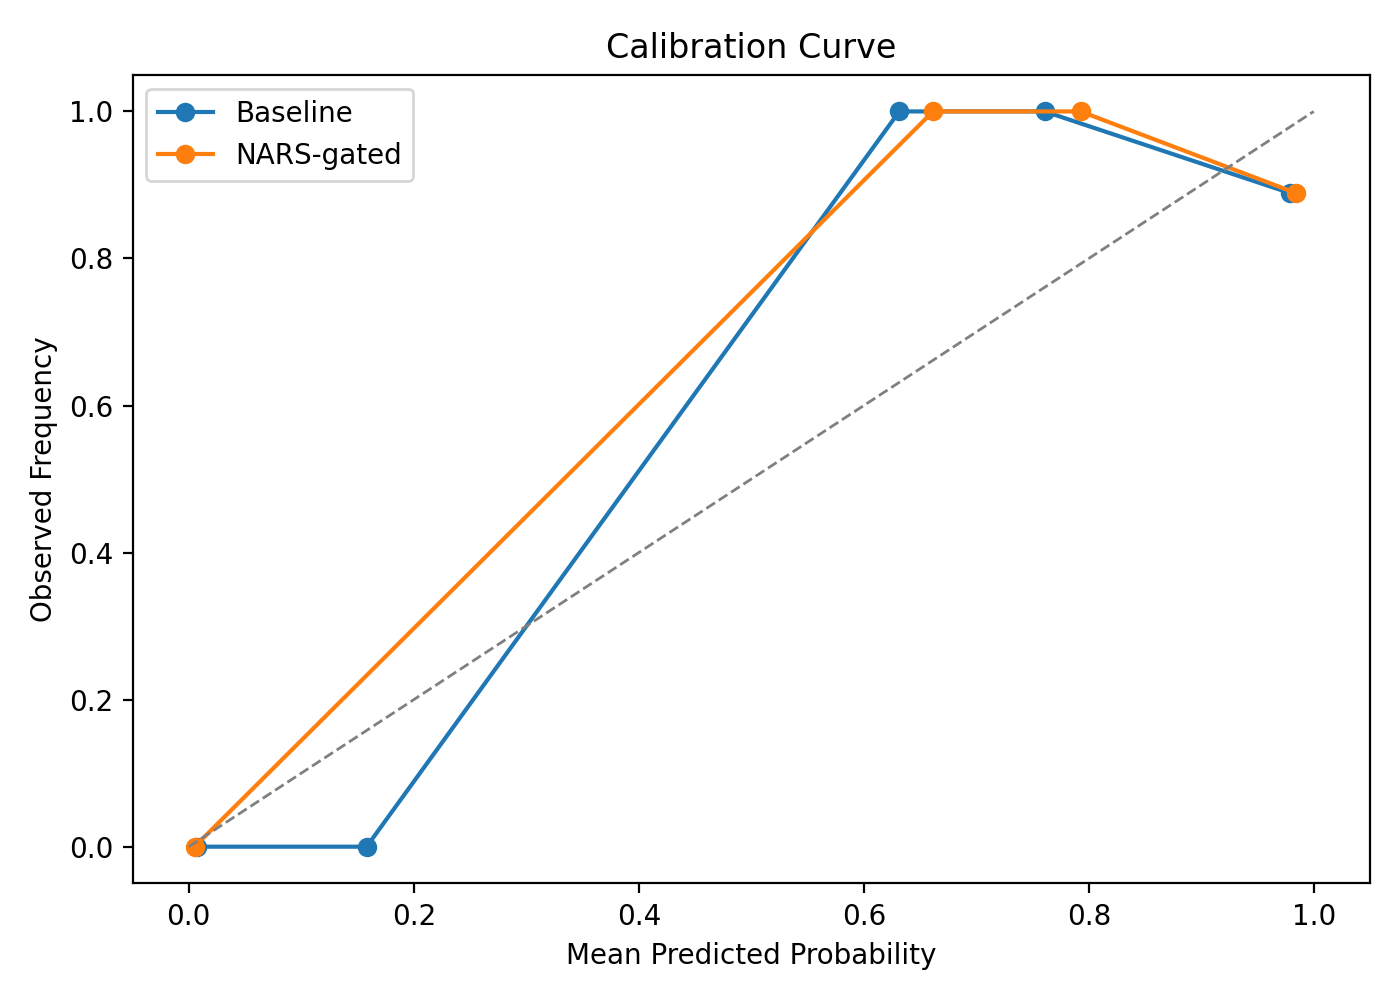
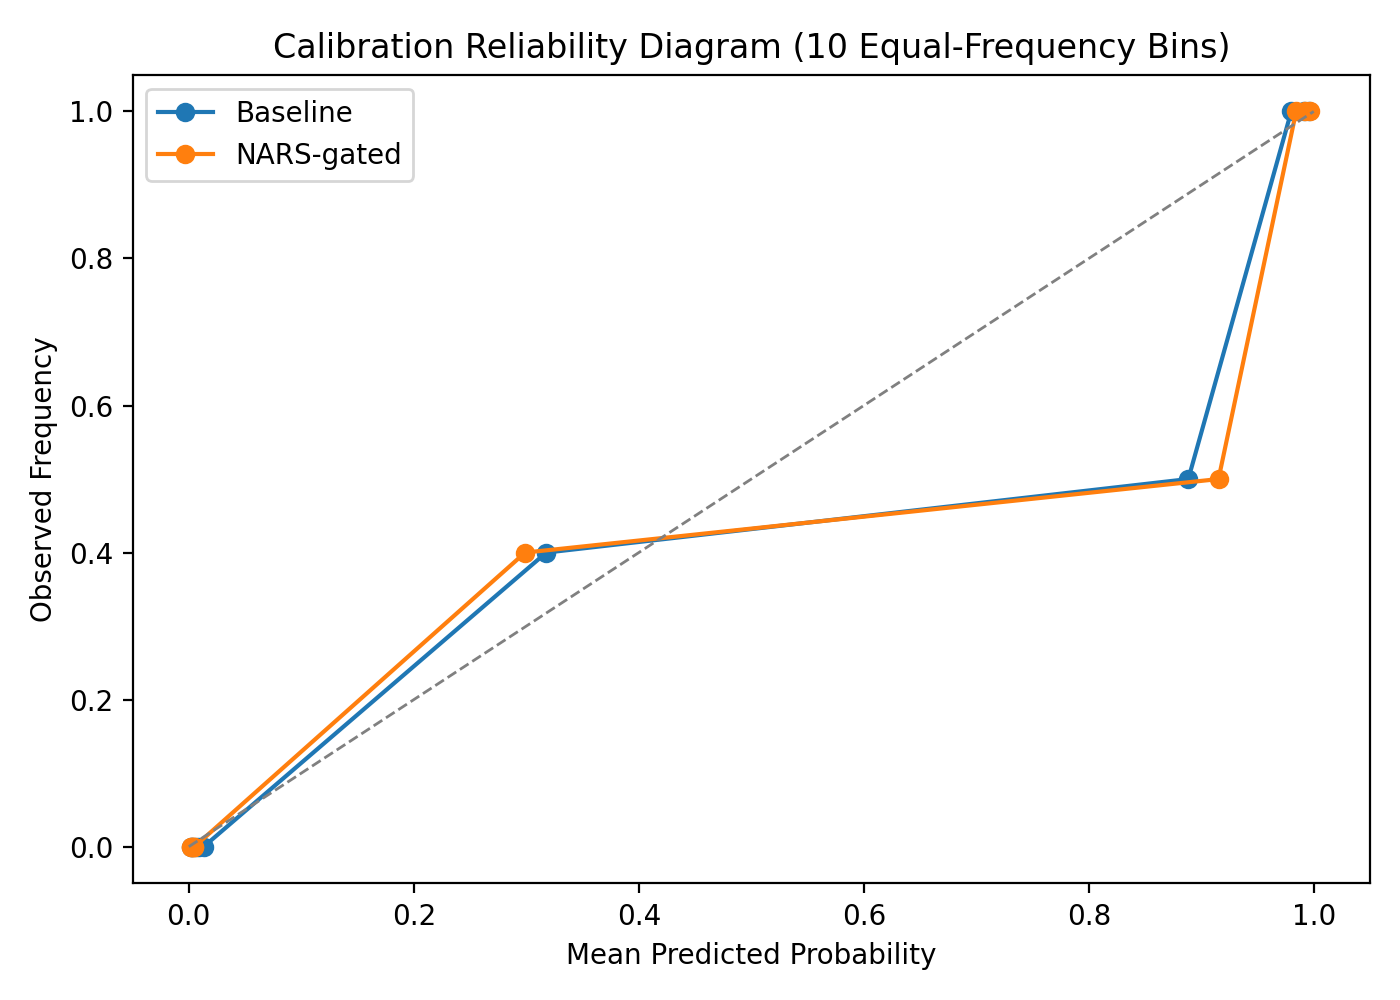
add calibration reliability diagram

diff --git a/paper/main.tex b/paper/main.tex
@@ -344,18 +344,18 @@ Gain $g$ & $0.7173$ & $g=c_{rev}^{\gamma}$ with $\gamma=2$ \\
 \end{tabular}
 \end{table}
 
-We also evaluated the implemented pipeline on a 149-row MTC dataset using a study-aware split with 80 training cases, 21 validation cases, and 48 held-out test cases. The reported run uses the default experimental setting of 50 Monte Carlo dropout passes with $\gamma=2$, together with a transformer architecture of $d_{model}=64$, 4 heads, and 2 encoder layers. Table~\ref{tab:empirical_results} summarizes the held-out performance of that configuration together with bootstrap confidence intervals for AUC. In addition, a gamma ablation was run over $\gamma\in\{0.25,0.5,1,2,4\}$ using the same trained model and held-out split to examine how the confidence gate changes the final outputs.
+We also evaluated the implemented pipeline on a 149-row MTC dataset using a study-aware split with 80 training cases, 21 validation cases, and 48 held-out test cases. The reported run uses the default experimental setting of 50 Monte Carlo dropout passes with $\gamma=2$, together with a transformer architecture of $d_{model}=64$, 4 heads, and 2 encoder layers. Table~\ref{tab:empirical_results} summarizes the held-out performance of that configuration together with bootstrap confidence intervals for AUC and expected calibration error (ECE) from a 10-bin equal-frequency reliability diagram. In addition, a gamma ablation was run over $\gamma\in\{0.25,0.5,1,2,4\}$ using the same trained model and held-out split to examine how the confidence gate changes the final outputs.
 
 \begin{table}[H]
 \caption{Empirical test-set performance on the 48-case held-out study-aware split for MTC diagnosis.}
 \label{tab:empirical_results}
 \centering
-\begin{tabular}{@{}lccccc@{}}
+\begin{tabular}{@{}lcccccc@{}}
 \toprule
-Variant & AUC & Brier score & Accuracy & 95\% CI (Baseline) & 95\% CI (NARS-Gated) \\
+Variant & AUC & Brier score & ECE & Accuracy & 95\% CI (Baseline) & 95\% CI (NARS-Gated) \\
 \midrule
-Baseline transformer & 0.9873 & 0.0412 & 0.9583 & [0.9590, 1.0000] & [0.9637, 1.0000] \\
-NARS-gated transformer & 0.9891 & 0.0411 & 0.9583 & [0.9590, 1.0000] & [0.9637, 1.0000] \\
+Baseline transformer & 0.9873 & 0.0412 & 0.0476 & 0.9583 & [0.9590, 1.0000] & [0.9637, 1.0000] \\
+NARS-gated transformer & 0.9891 & 0.0411 & 0.0496 & 0.9583 & [0.9590, 1.0000] & [0.9637, 1.0000] \\
 \bottomrule
 \end{tabular}
 \end{table}
@@ -383,6 +383,8 @@ The gamma ablation in Table~\ref{tab:gamma_ablation} shows that, on this test sp
 
 We also computed decision-curve analysis over threshold probabilities from 0.05 to 0.95 to assess clinical utility in terms of net benefit. Across a broad middle range of thresholds, both learned models outperform the treat-all and treat-none strategies. The NARS-gated model matches the baseline at many thresholds and exceeds it slightly at several decision points, including 0.65 and 0.80. At threshold 0.65, for example, net benefit increases from 0.2976 to 0.3185, corresponding to roughly 2.08 additional true-positive-equivalent decisions per 100 patients after accounting for threshold-weighted false positives.
 
+Calibration was assessed with a reliability diagram using 10 equal-frequency bins and by expected calibration error. On this split, ECE was 0.0476 for the baseline model and 0.0496 for the NARS-gated model. Thus, while the gated model improved Brier score slightly, it did not improve ECE on the same held-out set, indicating a mixed calibration result rather than a uniform gain.
+
 \section{Analysis}
 \label{sec:analysis}
 
@@ -392,7 +394,7 @@ Eq.~\eqref{eq:attention_update_result} enforces two invariants. It preserves $\s
 
 The empirical comparison in Table~\ref{tab:empirical_results} suggests that the direction of the AUC change is consistent with the method's intent. Because accuracy and recall remained unchanged while AUC increased slightly, the main impact of NARS guidance in this run is better ordering of cases by predicted risk rather than a change in thresholded decisions. In a clinical triage setting, even a small ranking improvement can matter because it can move suspicious cases higher in the review queue; however, the overlapping bootstrap intervals indicate that this cannot be treated as a confirmed performance gain on the current test split.
 
-The same experiment also shows a cautionary point. The Brier score changed only slightly, from 0.0412 to 0.0411 in the selected configuration, so the calibration effect is minor compared with the ranking effect. At the same time, the gamma ablation indicates that stronger gating can improve Brier score modestly even when AUC and accuracy stay fixed. This trade-off is consistent with the idea that confidence-based reweighting may help prioritize cases and smooth probabilities without necessarily changing hard decisions on a small held-out split.
+The same experiment also shows a cautionary point. The Brier score changed only slightly, from 0.0412 to 0.0411 in the selected configuration, so the calibration effect is minor compared with the ranking effect. At the same time, the gamma ablation indicates that stronger gating can improve Brier score modestly even when AUC and accuracy stay fixed, whereas the equal-frequency ECE estimate slightly worsened from 0.0476 to 0.0496. This trade-off is consistent with the idea that confidence-based reweighting may help prioritize cases and smooth probabilities without necessarily improving every calibration summary on a small held-out split.
 
 The decision-curve analysis sharpens that interpretation. The gain from NARS guidance is better described as local clinical-utility improvement at selected thresholds than as a uniform improvement across all decision settings. The high-threshold tail is unstable on this 48-case test set, with the NARS-gated curve dropping below baseline at 0.90 and 0.95, so those regions should not be over-interpreted. Taken together, the ranking, calibration, and decision-utility results support feasibility and selective benefit, but not a blanket claim of superiority across all threshold choices.
 

diff --git a/src/pipeline.py b/src/pipeline.py
@@ -11,7 +11,6 @@ import matplotlib.pyplot as plt
 import numpy as np
 import pandas as pd
 import torch
-from sklearn.calibration import calibration_curve
 from sklearn.metrics import accuracy_score, brier_score_loss, roc_auc_score, roc_curve
 from torch import nn
 
@@ -164,11 +163,46 @@ def _sigmoid(values: np.ndarray) -> np.ndarray:
 def _compute_metrics(y_true: np.ndarray, probabilities: np.ndarray) -> dict[str, float]:
     clipped_probabilities = np.clip(probabilities, 1e-6, 1.0 - 1e-6)
     predictions = (clipped_probabilities >= 0.5).astype(int)
+    reliability = _build_reliability_frame(y_true, clipped_probabilities, n_bins=10)
     return {
         "auc": float(roc_auc_score(y_true, clipped_probabilities)),
         "brier": float(brier_score_loss(y_true, clipped_probabilities)),
         "accuracy": float(accuracy_score(y_true, predictions)),
+        "ece": _compute_ece(reliability),
     }
+
+
+def _build_reliability_frame(
+    y_true: np.ndarray,
+    probabilities: np.ndarray,
+    n_bins: int = 10,
+) -> pd.DataFrame:
+    frame = pd.DataFrame(
+        {
+            "probability": np.asarray(probabilities, dtype=np.float64),
+            "label": np.asarray(y_true, dtype=np.float64),
+        }
+    ).sort_values("probability", kind="mergesort").reset_index(drop=True)
+    frame["bin"] = pd.qcut(frame.index, q=n_bins, labels=False, duplicates="drop")
+    reliability = (
+        frame.groupby("bin", observed=True)
+        .agg(
+            mean_predicted_probability=("probability", "mean"),
+            fraction_positives=("label", "mean"),
+            count=("label", "size"),
+        )
+        .reset_index(drop=True)
+    )
+    return reliability
+
+
+def _compute_ece(reliability_frame: pd.DataFrame) -> float:
+    total = float(reliability_frame["count"].sum())
+    weighted_error = (
+        (reliability_frame["count"] / total)
+        * np.abs(reliability_frame["fraction_positives"] - reliability_frame["mean_predicted_probability"])
+    ).sum()
+    return float(weighted_error)
 
 
 def _bootstrap_auc_intervals(
@@ -256,17 +290,17 @@ def _save_calibration_plot(
         ("Baseline", baseline_probabilities),
         ("NARS-gated", gated_probabilities),
     ):
-        fraction_positives, mean_predicted_value = calibration_curve(
-            y_true,
-            probabilities,
-            n_bins=8,
-            strategy="uniform",
+        reliability = _build_reliability_frame(y_true, probabilities, n_bins=10)
+        plt.plot(
+            reliability["mean_predicted_probability"],
+            reliability["fraction_positives"],
+            marker="o",
+            label=label,
         )
-        plt.plot(mean_predicted_value, fraction_positives, marker="o", label=label)
     plt.plot([0, 1], [0, 1], linestyle="--", color="gray", linewidth=1)
     plt.xlabel("Mean Predicted Probability")
     plt.ylabel("Observed Frequency")
-    plt.title("Calibration Curve")
+    plt.title("Calibration Reliability Diagram (10 Equal-Frequency Bins)")
     plt.legend()
     plt.tight_layout()
     plt.savefig(output_path, dpi=200)
@@ -493,6 +527,15 @@ def run_pipeline(config: PipelineConfig) -> dict[str, Any]:
     gated_probabilities = _sigmoid(gated_logits)
 
     y_true = summary.labels.astype(int)
+    baseline_reliability = _build_reliability_frame(y_true, summary.probabilities_mean, n_bins=10)
+    gated_reliability = _build_reliability_frame(y_true, gated_probabilities, n_bins=10)
+    reliability_frame = pd.concat(
+        [
+            baseline_reliability.assign(variant="baseline"),
+            gated_reliability.assign(variant="nars_gated"),
+        ],
+        ignore_index=True,
+    )
     auc_bootstrap = _bootstrap_auc_intervals(
         y_true=y_true,
         probability_map={
@@ -519,6 +562,7 @@ def run_pipeline(config: PipelineConfig) -> dict[str, Any]:
         ]
     )
     metrics_frame.to_csv(output_dirs["metrics"] / "metrics.csv", index=False)
+    reliability_frame.to_csv(output_dirs["metrics"] / "calibration_reliability.csv", index=False)
 
     trace_frame = _build_trace_frame(
         bundle=bundle,
@@ -574,11 +618,13 @@ def run_pipeline(config: PipelineConfig) -> dict[str, Any]:
         "auc_bootstrap": auc_bootstrap,
         "gamma_ablation": gamma_ablation_frame.to_dict(orient="records"),
         "decision_curve": decision_curve_frame.to_dict(orient="records"),
+        "calibration_reliability": reliability_frame.to_dict(orient="records"),
         "artifacts": {
             "metrics_csv": str(output_dirs["metrics"] / "metrics.csv"),
             "training_history_csv": str(output_dirs["metrics"] / "training_history.csv"),
             "gamma_ablation_csv": str(output_dirs["metrics"] / "gamma_ablation.csv"),
             "decision_curve_csv": str(output_dirs["metrics"] / "decision_curve.csv"),
+            "calibration_reliability_csv": str(output_dirs["metrics"] / "calibration_reliability.csv"),
             "trace_csv": str(output_dirs["traces"] / "test_predictions.csv"),
             "roc_curve": str(output_dirs["charts"] / "roc_curve.png"),
             "calibration_curve": str(output_dirs["charts"] / "calibration_curve.png"),

diff --git a/README.md b/README.md
@@ -67,13 +67,14 @@ Saved metrics:
 - [results/metrics/run_summary.json](results/metrics/run_summary.json)
 - [results/metrics/gamma_ablation.csv](results/metrics/gamma_ablation.csv)
 - [results/metrics/decision_curve.csv](results/metrics/decision_curve.csv)
+- [results/metrics/calibration_reliability.csv](results/metrics/calibration_reliability.csv)
 
 ### Test-Set Metrics
 
-| Variant | AUC | Brier Score | Accuracy | Recall | Precision | F1 |
-| --- | ---: | ---: | ---: | ---: | ---: | ---: |
-| Baseline Transformer | 0.9873 | 0.04121 | 95.83% | 100.00% | 90.48% | 0.9500 |
-| NARS-Gated Transformer | 0.9891 | 0.04115 | 95.83% | 100.00% | 90.48% | 0.9500 |
+| Variant | AUC | Brier Score | ECE | Accuracy | Recall | Precision | F1 |
+| --- | ---: | ---: | ---: | ---: | ---: | ---: | ---: |
+| Baseline Transformer | 0.9873 | 0.04121 | 0.04758 | 95.83% | 100.00% | 90.48% | 0.9500 |
+| NARS-Gated Transformer | 0.9891 | 0.04115 | 0.04962 | 95.83% | 100.00% | 90.48% | 0.9500 |
 
 ### Bootstrap AUC Confidence Intervals
 
@@ -89,6 +90,17 @@ Using `1000` bootstrap resamples of the `48` held-out test cases, the saved run 
 The main empirical effect is a **small ranking improvement** from the NARS-guided attention layer: AUC rises from `0.9873` to `0.9891`, and the Brier score improves slightly from `0.04121` to `0.04115`. The thresholded predictions on this held-out split remain the same, but the important contribution is that NGTA makes epistemic uncertainty explicit through NARS confidence and uses that confidence to produce slightly better risk ordering.
 
 The bootstrap intervals also matter for interpretation. The baseline interval (`0.9590` to `1.0000`) and the NARS-gated interval (`0.9637` to `1.0000`) **do overlap**, so this run should be described as showing an observed improvement, but not a clearly separated one by the bootstrap-CI check. In other words, the result is promising but still uncertain on a `48`-case test set.
+
+### Calibration Reliability
+
+The calibration figure is now a reliability diagram built with `10` equal-frequency bins, with the baseline and NARS-gated variants plotted on the same axes. The underlying bucket summaries are exported to [results/metrics/calibration_reliability.csv](results/metrics/calibration_reliability.csv), and the figure remains [charts/calibration_curve.png](charts/calibration_curve.png).
+
+The saved ECE values are:
+
+- Baseline: `0.04758`
+- NARS-gated: `0.04962`
+
+On this split, the NARS-gated model improves Brier score slightly but has a slightly worse ECE than the baseline. That means the calibration result is mixed rather than uniformly better for the gated model.
 
 ### Gamma Ablation
 
@@ -309,6 +321,7 @@ Metrics and traces:
 - [results/metrics/training_history.csv](results/metrics/training_history.csv)
 - [results/metrics/gamma_ablation.csv](results/metrics/gamma_ablation.csv)
 - [results/metrics/decision_curve.csv](results/metrics/decision_curve.csv)
+- [results/metrics/calibration_reliability.csv](results/metrics/calibration_reliability.csv)
 - [results/traces/split_summary.json](results/traces/split_summary.json)
 - [results/traces/preprocessing_metadata.json](results/traces/preprocessing_metadata.json)
 - [results/traces/test_predictions.csv](results/traces/test_predictions.csv)
